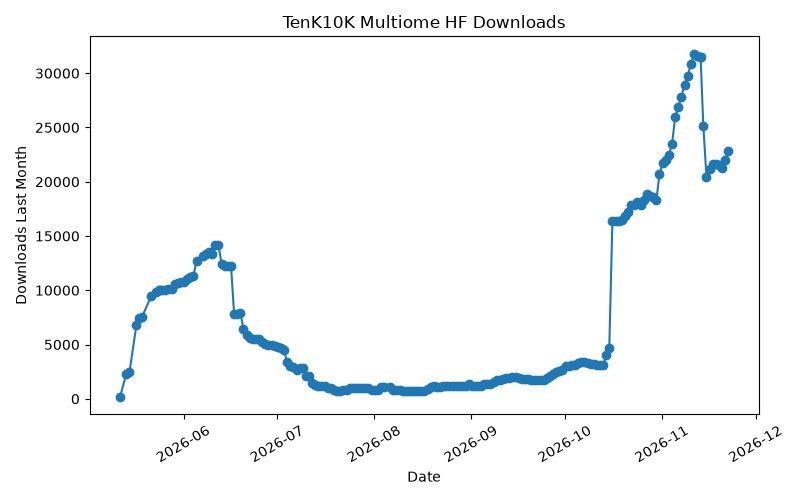
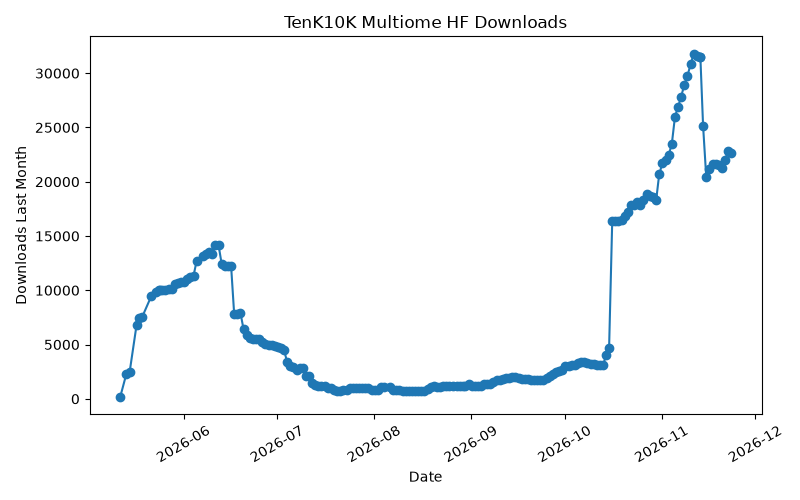
Update download stats

diff --git a/README.md b/README.md
@@ -7,9 +7,9 @@ These counts are retrieved from the [Hugging Face dataset](https://huggingface.c
 
 <!-- download-stats:start -->
 
-- Downloads in the last 30 days: **22,854**
-- Total downloads: **60,287**
+- Downloads in the last 30 days: **22,648**
+- Total downloads: **60,520**
 
-Last updated: 2026-11-22 05:48:02 UTC.
+Last updated: 2026-11-23 06:34:40 UTC.
 
 <!-- download-stats:end -->
